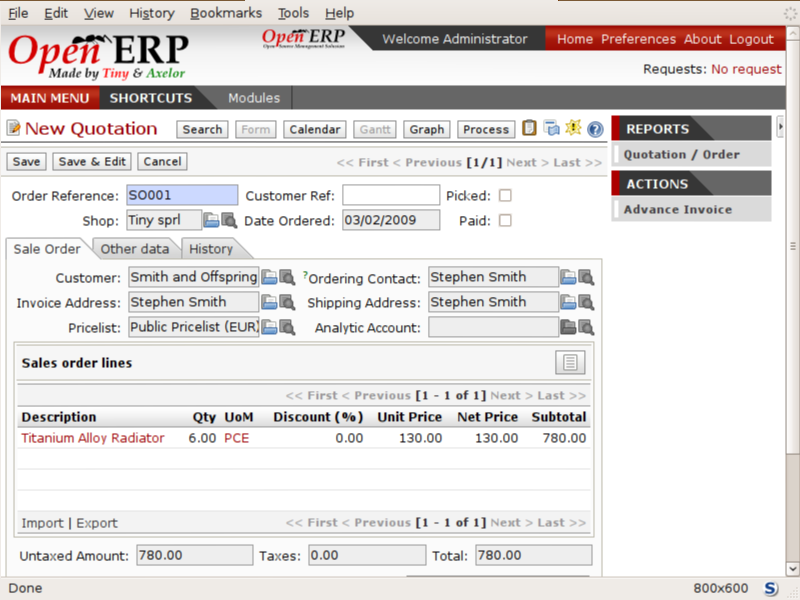
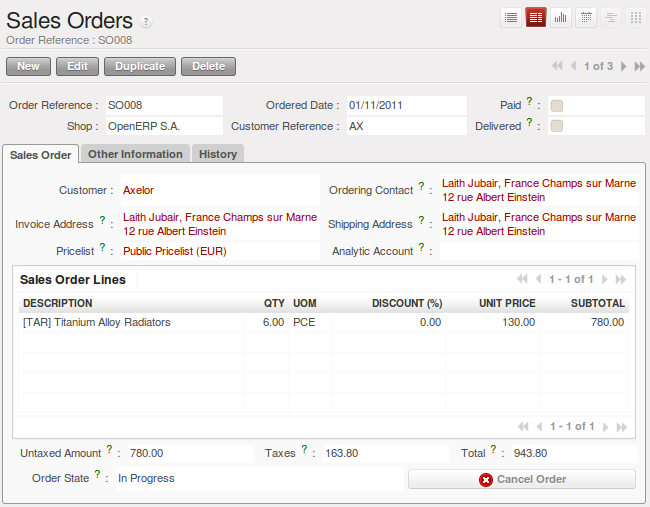
[IMP]: From Sales Proposal to Sales Order.

diff --git a/1/1_3_Real_Case/1_3_Real_Case_testing_wf.rst b/1/1_3_Real_Case/1_3_Real_Case_testing_wf.rst
@@ -199,32 +199,28 @@ From Sales Proposal to Sales Order
 ----------------------------------
 
 In Open ERP, sales proposals and sales orders are managed using documents that are based on the
-same common functionality as purchase orders, so you'll recognize the following documents in general
+same common functionality as purchase orders, so you will recognize the following documents in general
 but see changes to their detail and to their workflows. To create a new sales proposal, use the
-menu :menuselection:`Sales Management --> Sales Orders --> New Quotation` which creates a new order in a state of \
+menu :menuselection:`Sales --> Sales --> Sales Orders` and click on `New` button which creates a new order in a state of \
 ``Quotation``\  , then:
 
-	#. Select the :guilabel:`Customer` \ ``Smith and Offspring``\  . This has the effect of automatically
+	#. Select the :guilabel:`Customer` \ ``Axelor``\  . This has the effect of automatically
 	   completing several other fields: :guilabel:`Ordering Contact`, :guilabel:`Invoice Address`,
-	   :guilabel:`Shipping Address`, and the :guilabel:`Pricelist` \ ``Public Pricelist``\.  They're
+	   :guilabel:`Shipping Address`, and the :guilabel:`Pricelist` \ ``Public Pricelist (EUR)``\.  They are
 	   all only defaults so these fields can be modified as you need.
 
-	#. Click the :guilabel:`Save parent record.` icon to the right of the
-	   :guilabel:`Sales Order Lines` field. It saves the main order form and becomes a new
-	   :guilabel:`Create new record.` icon. Click that to open a :guilabel:`Sales Order Lines` window.
+	#. Click the :guilabel:`Create new record` icon to open a :guilabel:`Sales Order Lines` window.
 
-	#. Select the product \ ``Titanium Alloy Radiator``\   Although the :guilabel:`Product` field isn't
-	   itself required, it's used by Open ERP to select the specific product so that several other fields
+	#. Select the product \ ``Titanium Alloy Radiator``\   Although the :guilabel:`Product` field is not
+	   itself required, it is used by Open ERP to select the specific product so that several other fields
 	   can be automatically completed on the order line of the proposal, such as :guilabel:`Description`,
 	   :guilabel:`Product UoM`, :guilabel:`Unit Price`, :guilabel:`Procure Method`,
 	   :guilabel:`Delivery Delay`, and :guilabel:`Taxes`.
 
 	#. Change the :guilabel:`Quantity` to \ ``6``\  and the :guilabel:`Unit Price` to \ ``130.00``\
-	   Then click :guilabel:`Save` and the line appears on the quotation form. A blank order line form
-	   reappears so that you can enter another line, but it's enough now just to click :guilabel:`Close`
-	   to return to the order form.
+	   Then click :guilabel:`Save` and the line appears on the quotation form.
 
-	#. On the :guilabel:`Other data` tab of this Sales Order select a
+	#. On the :guilabel:`Other Information` tab of this Sales Order select a
 	   :guilabel:`Packing Policy` of ``Complete Delivery`` and
 	   :guilabel:`Shipping Policy` of ``Invoice on Order After Delivery``  from their dropdown menu lists.
 
@@ -232,7 +228,7 @@ menu :menuselection:`Sales Management --> Sales Orders --> New Quotation` which 
 	   :guilabel:`Confirm Order` which calculates prices and the changes the order's state from \
 	   ``Quotation``\  to \ ``In Progress``\ as shown in screenshot :ref:`fig-ch03ord`.
 	   If you were in negotiation with the prospective customer
-	   you'd keep clicking :guilabel:`Compute` and :guilabel:`Save` keeping the document in \
+	   you would keep clicking :guilabel:`Compute` and :guilabel:`Save` keeping the document in \
 	   ``Quotation``\  state for as long as necessary.
 
 	   .. _fig-ch03ord:
@@ -244,10 +240,10 @@ menu :menuselection:`Sales Management --> Sales Orders --> New Quotation` which 
 	      *Sales Order Form*
 
 	#. In the last tab of the order, :guilabel:`History` you can see the :guilabel:`Packing List`
-	   that's been created and you'll be able to see any invoices that relate to this order when they're
+	   that is been created and you will be able to see any invoices that relate to this order when they are
 	   generated.
 
-From the :guilabel:`Main Menu` click :menuselection:`Products --> Products` to display a list of
+From the  :menuselection:`Sales --> Products --> Products` to display a list of
 products: just the one, \ ``Titanium Alloy Radiator``\  , currently exists in this example. Its
 :guilabel:`Real Stock` still shows \ ``10.00``\   but its :guilabel:`Virtual Stock` now shows \
 ``4.00``\  to reflect the new future requirement of 6 units for despatch.
